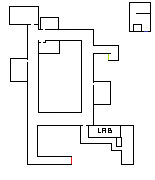
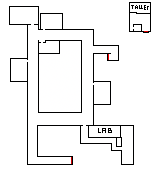
Posicionamiento NPCs, interacción con Melody, desbloqueo de taller

diff --git a/src/main/GamePanel.java b/src/main/GamePanel.java
@@ -50,9 +50,14 @@ public class GamePanel extends JPanel implements GameThread.Updatable {
     private String textoActual = "";
     private long lastCharTime = 0;
     private int charDelay = 25;
+    
+    // Zonas desbloqueadas:
+    
+    public boolean taller = false;
 
     
     // Seguimiento de Camara
+    
     public double CameraX = 0;
     public double CameraY = 0;
     
@@ -75,8 +80,8 @@ public class GamePanel extends JPanel implements GameThread.Updatable {
         Musica.enableLoop();
         
         // Cargar ambos mapas de colisiones
-        plantaAltaMap = new CollisionMap("resources/Collision_Maps/PLANTA_ALTA.png");
-        plantaBajaMap = new CollisionMap("resources/Collision_Maps/PLANTA_BAJA.png");
+        plantaAltaMap = new CollisionMap("resources/Collision_Maps/PLANTAALTA.png");
+        plantaBajaMap = new CollisionMap("resources/Collision_Maps/PLANTABAJA.png");
         
         pressedKeys = new HashSet<>();
         
@@ -201,7 +206,7 @@ public class GamePanel extends JPanel implements GameThread.Updatable {
             
             // Escribir Texto
             g2d.setFont(GameWindow.Pixelart.deriveFont(30f));
-            g2d.drawString(textoActual, GW.SX(340), GW.SY(750));
+            drawDialogue(g2d, textoActual, GW.SX(340), GW.SY(750), GW.SX(1200)); // 300px es el ancho máximo del cuadro
             
             // Texto Ayuda
             g2d.setFont(GameWindow.Pixelart.deriveFont(25f));
@@ -281,12 +286,19 @@ public class GamePanel extends JPanel implements GameThread.Updatable {
                         player.facingLeft = false;
                     } else if (deltaX < 0) { // Izquierda
                         player.image = new ImageIcon("resources/Sprites/Jugador/pj-side.png").getImage();
-                        player.facingLeft = true; // Establecer para reflejar
+                        player.facingLeft = true;
                     } else if (deltaX > 0) { // Derecha
                         player.image = new ImageIcon("resources/Sprites/Jugador/pj-side.png").getImage();
-                        player.facingLeft = false; // No reflejar
+                        player.facingLeft = false;
                     }
                 }
+        }
+        
+        // No está permitido taller en planta baja si no se desbloquea
+        if (!taller && !enPlantaAlta) {
+            if (player.getX() > 168 * SCALE) {  
+                player.setX(168 * SCALE);
+            }
         }
         
         // Interactuar con NPCs
@@ -354,6 +366,42 @@ public class GamePanel extends JPanel implements GameThread.Updatable {
             currentTeleportId = -1;
         }
     }
+    
+    // Desarmar Texto
+    
+    public ArrayList<String> wrapText(String text, FontMetrics fm, int maxWidth) {
+        ArrayList<String> lines = new ArrayList<>();
+        StringBuilder currentLine = new StringBuilder();
+
+        for (String word : text.split(" ")) {
+            String testLine = currentLine + word + " ";
+            if (fm.stringWidth(testLine) > maxWidth) {
+                lines.add(currentLine.toString());
+                currentLine = new StringBuilder(word + " ");
+            } else {
+                currentLine.append(word).append(" ");
+            }
+        }
+
+        if (!currentLine.isEmpty()) {
+            lines.add(currentLine.toString());
+        }
+
+        return lines;
+    }
+    
+    // Dibujar Texto separado
+    public void drawDialogue(Graphics2D g, String text, int x, int y, int maxWidth) {
+        FontMetrics fm = g.getFontMetrics();
+        ArrayList<String> lines = wrapText(text, fm, maxWidth);
+        int lineHeight = fm.getHeight();
+
+        for (int i = 0; i < lines.size(); i++) {
+            g.drawString(lines.get(i), x, y + (i * lineHeight));
+        }
+    }
+
+
     
     public void handleKeyPress(int keyCode) {
         pressedKeys.add(keyCode);
@@ -474,7 +522,10 @@ public class GamePanel extends JPanel implements GameThread.Updatable {
         currentNPC = npc;
         currentLine = npc.npcLine();
         nombreNPC = npc.Tipo;
-
+        
+        if(nombreNPC.equals("Zambrana") && triggeredNPC("Melody") == 0) {
+        	triggerNPC("Melody", 1);
+        }
         loadCurrentLine(npc);
     }
     
@@ -521,11 +572,18 @@ public class GamePanel extends JPanel implements GameThread.Updatable {
         repaint();
     }
     
-    public void triggerNPC(String targetTipo) {
+    // Darle trigger a un npc
+    public void triggerNPC(String targetTipo, int trigger) {
         NPC npc = NPCManager.getNPCByTipo(targetTipo);
         if (npc != null) {
-            npc.Trigger = true;
+            npc.Trigger = trigger;
         }
+    }
+    
+    // Verificar qué trigger tiene un npc
+    public int triggeredNPC(String targetTipo) {
+    	NPC npc = NPCManager.getNPCByTipo(targetTipo);
+        return npc.Trigger;
     }
     
     /**
@@ -656,17 +714,24 @@ public class GamePanel extends JPanel implements GameThread.Updatable {
             NPCs.clear();
        
             // Generar NPCs
-            NPCs.add(NPCManager.getOrCreateNPC("Findlay", 187 * SCALE, 164 * SCALE, GW.SX(40), this));
-            NPCs.add(NPCManager.getOrCreateNPC("Lavega", 187 * SCALE, 167 * SCALE, GW.SX(40), this));
-            NPCs.add(NPCManager.getOrCreateNPC("Melody", 171 * SCALE, 113 * SCALE, GW.SX(40), this));
-            NPCs.add(NPCManager.getOrCreateNPC("Gennuso", 197 * SCALE, 237 * SCALE, GW.SX(40), this));
-            NPCs.add(NPCManager.getOrCreateNPC("Signorello", 200 * SCALE, 110 * SCALE, GW.SX(40), this));
-            NPCs.add(NPCManager.getOrCreateNPC("Vagos", 201 * SCALE, 99 * SCALE, GW.SX(40), this));
-            NPCs.add(NPCManager.getOrCreateNPC("Biblioteca", 141 * SCALE, 239 * SCALE, GW.SX(40), this));
-            NPCs.add(NPCManager.getOrCreateNPC("Cantina", 212 * SCALE, 99 * SCALE, GW.SX(40), this));
-            NPCs.add(NPCManager.getOrCreateNPC("Rita", 139 * SCALE, 245 * SCALE, GW.SX(40), this));
-            NPCs.add(NPCManager.getOrCreateNPC("Pecile", 148 * SCALE, 219 * SCALE, GW.SX(40), this));
-            NPCs.add(NPCManager.getOrCreateNPC("Kreimer", 237 * SCALE, 207 * SCALE, GW.SX(40), this));
+            NPCs.add(NPCManager.getOrCreateNPC("Findlay", 63 * SCALE, 167 * SCALE, GW.SX(40), this));
+            NPCs.add(NPCManager.getOrCreateNPC("Lavega", 67 * SCALE, 167 * SCALE, GW.SX(40), this));
+            NPCs.add(NPCManager.getOrCreateNPC("Melody", 49 * SCALE, 105 * SCALE, GW.SX(40), this));
+            NPCs.add(NPCManager.getOrCreateNPC("Gennuso", 72 * SCALE, 237 * SCALE, GW.SX(40), this));
+            NPCs.add(NPCManager.getOrCreateNPC("Signorello", 75 * SCALE, 110 * SCALE, GW.SX(40), this));
+            NPCs.add(NPCManager.getOrCreateNPC("Vagos", 56 * SCALE, 109 * SCALE, GW.SX(60), this));
+            NPCs.add(NPCManager.getOrCreateNPC("Biblioteca", 17 * SCALE, 238 * SCALE, GW.SX(40), this));
+            NPCs.add(NPCManager.getOrCreateNPC("Guerra", 15 * SCALE, 230 * SCALE, GW.SX(40), this));
+            NPCs.add(NPCManager.getOrCreateNPC("Cantina", 85 * SCALE, 96 * SCALE, GW.SX(90), this));
+            NPCs.add(NPCManager.getOrCreateNPC("Rita", 14 * SCALE, 245 * SCALE, GW.SX(40), this));
+            NPCs.add(NPCManager.getOrCreateNPC("Pecile", 24 * SCALE, 219 * SCALE, GW.SX(40), this));
+            NPCs.add(NPCManager.getOrCreateNPC("Kreimer", 115 * SCALE, 207 * SCALE, GW.SX(40), this));
+            NPCs.add(NPCManager.getOrCreateNPC("Martin", 123 * SCALE, 196 * SCALE, GW.SX(40), this));
+            NPCs.add(NPCManager.getOrCreateNPC("Casas", 209 * SCALE, 238 * SCALE, GW.SX(40), this));
+            NPCs.add(NPCManager.getOrCreateNPC("Martin", 179 * SCALE, 196 * SCALE, GW.SX(40), this));
+            NPCs.add(NPCManager.getOrCreateNPC("Ulises", 195 * SCALE, 173 * SCALE, GW.SX(40), this));
+            NPCs.add(NPCManager.getOrCreateNPC("Gramajo", 236 * SCALE, 175 * SCALE, GW.SX(40), this));
+            NPCs.add(NPCManager.getOrCreateNPC("Zambrana", 166 * SCALE, 206 * SCALE, GW.SX(40), this));
     		break;
     		
     	case 2: // ASCENSOR SECRETO

diff --git a/src/Levels/LevelPanel.java b/src/Levels/LevelPanel.java
@@ -577,11 +577,55 @@ public class LevelPanel extends JPanel implements GameThread.Updatable {
     // Ganar
     private void Ganar() {
     	win = true;
-    	System.out.print("Ganaste");
-    	
-    	gameWindow.gamePanel.triggerNPC("Mauro"); // test
-    	
+    	LevelToReward(level);
+    }
+    
+    
+    private void LevelToReward(String level) {
+    	switch(level) {
     	// Añadir Item al inventario del gamepanel
+    	case "Melody":
+    		
+    		// Desbloquear taller
+    		gameWindow.gamePanel.triggerNPC("Zambrana", 1);
+    		gameWindow.gamePanel.triggerNPC("Melody", 2);
+    		gameWindow.gamePanel.triggerNPC("Kreimer", 1);
+    		gameWindow.gamePanel.taller = true;
+    		
+    		break;
+    	
+    	case "Los Vagos":
+    		// trigger al de la cantina para que te de un item al hablar
+    		break;
+    		
+    	case "Gennuso":
+    		// Conseguir Item: IG de renaa_gm
+    		break;
+    		
+    	case "Rita":
+    		// Conseguir Item: Procesador
+    		break;
+    		
+    	case "Casas":
+    		// Conseguir Item: Llave de SUM
+    		break;
+    		
+    	case "Ledesma":
+    		// Conseguir Item: Pastafrola
+    		break;
+    		
+    	case "Pecile":
+    		// Conseguir Item: Llave de la reja
+    		break;
+    		
+    	case "Signorello":
+    		// Conseguir Item: Marcador de findlay
+    		break;
+    		
+    	case "Martin":
+    		// Conseguir Item: Marcador de findlay
+    		break;
+    	}
     }
     
     // Mensaje según qué vos eliminaste

diff --git a/src/entities/NPC.java b/src/entities/NPC.java
@@ -16,7 +16,7 @@ public class NPC {
 	public String Tipo;
 	public int line = 1;
 	public int FinalLine = -1;
-	public boolean Trigger = false;
+	public int Trigger = 0; // IDs de trigger para poder tener mas varianza
 	
 	public boolean interactive = false;
 	private GamePanel panel;
@@ -34,18 +34,25 @@ public class NPC {
 	public int npcLine() {
 		
 		// Triggers de NPCs
-		if(Tipo.equals("Mauro") && Trigger) {
+		
+		if(Tipo.equals("Zambrana") && Trigger == 1) {
 			line = 3;
 		}
+		if(Tipo.equals("Melody") && Trigger == 1) {
+			line = 3;
+		}
+		if(Tipo.equals("Melody") && Trigger == 2) {
+			line = 8;
+		}
+		if(Tipo.equals("Kreimer") && Trigger == 1) {
+			line = 3;
+		}
+		
 		
 		return line;
 	}
 	
 	public int npcFinalLine() {
-		
-		if(Tipo.equals("random") && Trigger) {
-			FinalLine = 1;
-		}
 		
 		return FinalLine;
 	}

diff --git a/src/Mapa/CollisionMap.java b/src/Mapa/CollisionMap.java
@@ -66,7 +66,7 @@ public class CollisionMap {
         return brightness < 128;
     }
     
-    // 🔹 Verifica si hay un teleport en la posición dada
+    // Verifica si hay un teleport en la posición dada
     public boolean isTeleportZone(int x, int y) {
         if (collisionImage == null) return false;
 
@@ -84,7 +84,6 @@ public class CollisionMap {
         return isRedPixel(color);
     }
     
-    // 🔹 Obtiene el ID del teleport según el grado de rojo (0-255)
     public int getTeleportId(int x, int y) {
         if (collisionImage == null) return -1;
 
